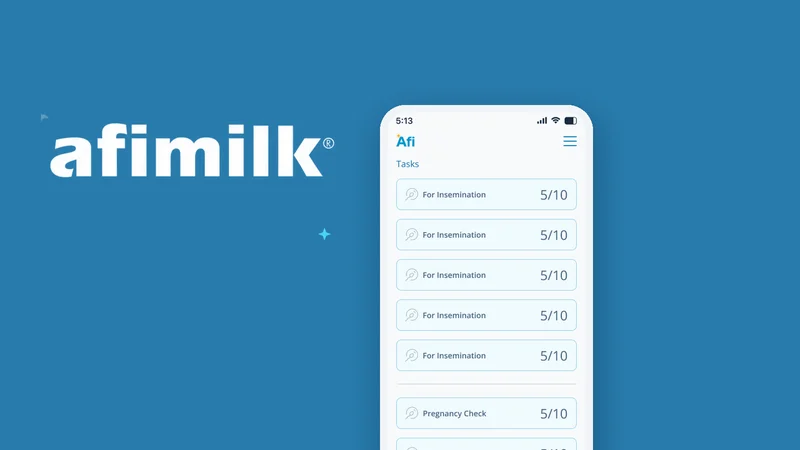
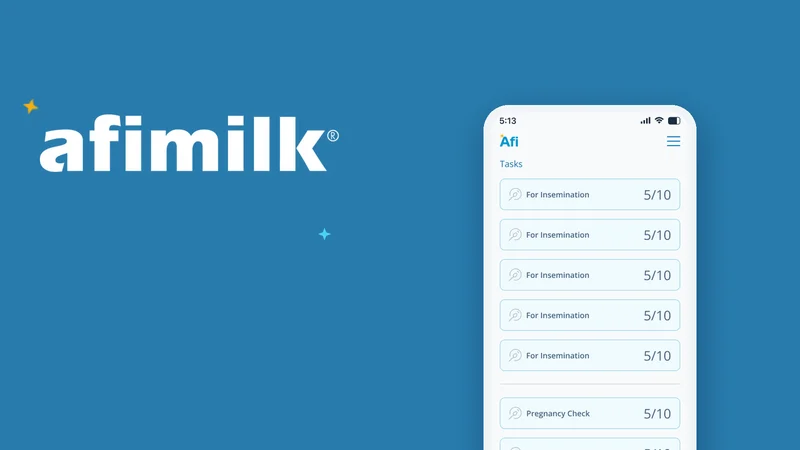
Afimilk covers: keep the brand art as its own asset (restores the gold star), centre the phone
Claude-Session: https://claude.ai/code/session_01U3LnkADmWK6BWBvsiVpdjW

Changed region(s): [[0.4688, 0.2178, 0.875, 1.0], [0.0312, 0.2489, 0.4375, 0.4044], [0.0312, 0.2178, 0.0625, 0.2489]]

diff --git a/scripts/afimilk-covers.py b/scripts/afimilk-covers.py
@@ -18,7 +18,8 @@ BG = (40, 123, 172)          # Afimilk brand blue, sampled from their own artwor
 GOLD = (252, 176, 13)
 CYAN = (75, 214, 244)
 
-brand = Image.open(IMG / 'farmers-1600.webp').convert('RGB')   # Afimilk's marketing render
+# Afimilk's own artwork, kept here because the covers it used to live in get overwritten
+brand = Image.open(ROOT / 'scripts' / 'assets' / 'afimilk-brand-art.webp').convert('RGB')
 herd_art = Image.open(ROOT / 'scripts' / 'assets' / 'afimilk-herd-art.webp').convert('RGB')
 
 
@@ -81,7 +82,8 @@ def drop(cv, layer, x, y, blur=34, strength=120):
 
 # ---- Farmers: one app screen, running off the right and bottom like the windows ----
 cv = base()
-cv = drop(cv, phone(ROOT / 'scripts' / 'assets' / 'farmers-tasks.png', 860), 760, 210)
+ph = phone(ROOT / 'scripts' / 'assets' / 'farmers-tasks.png', 860)
+cv = drop(cv, ph, int(760 + (W - 760 - ph.width) / 2), 210)
 cv.save(IMG / 'farmers-1600.webp', quality=86)
 cv.resize((800, 450), Image.LANCZOS).save(IMG / 'farmers-800.webp', quality=86)
 print('wrote farmers')
